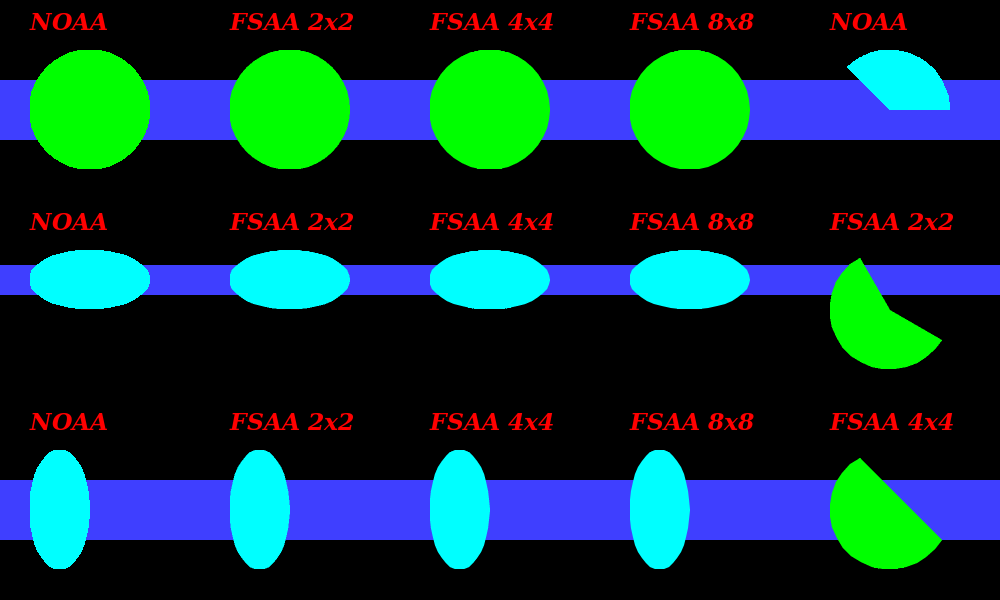
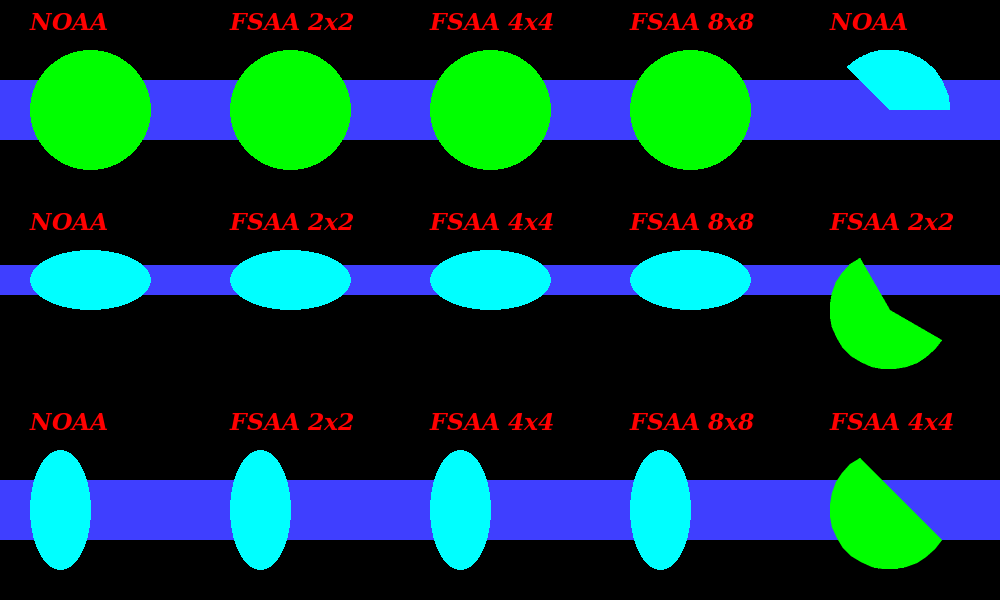
Experiment with solid filled ellipse

diff --git a/src/Pt-Gfx/Rasterizer2.cpp b/src/Pt-Gfx/Rasterizer2.cpp
@@ -167,9 +167,95 @@ void Rasterizer2::strokeText( const Point& to, const Pt::String& text )
     _text->draw( *_image, _pen.color(), to, text, _compositionMode );
 }
 
+void Rasterizer2::fillEllipseJaggies(const Point& topLeft, const Size& size)
+{
+    // e(X, Y) = ( b^2 * X^2 ) + ( a^2 * Y^2 ) - ( a^2 * b^2 )
+
+    Pt::int32_t errorx = 1;
+    Pt::int32_t errory = 1;
+
+    if( (Pt::int32_t)size.width()%2 != 0 )
+        errorx  =  0;
+
+    if( (Pt::int32_t)size.height()%2 != 0)
+        errory  = 0;
+
+    const Pt::int32_t       a      = (Pt::int32_t)size.width() /2;
+    const Pt::int32_t       b      = (Pt::int32_t)size.height() /2;
+    const Pt::int32_t       xc     = (Pt::int32_t)topLeft.x() + a;
+    const Pt::int32_t       yc     = (Pt::int32_t)topLeft.y() + b;
+    Pt::int32_t             x      = 0;
+    Pt::int32_t             y      = b;
+    Pt::int32_t             width  = 1;
+    long            a2     = (long)a*a;
+    long            b2     = (long)b*b;
+    long            crit1  = -(a2/4 + a%2 + b2);
+    long            crit2  = -(b2/4 + b%2 + a2);
+    long            crit3  = -(b2/4 + b%2);
+    long            t      = -a2*y; /* e(x+1/2,y-1/2) - (a^2+b^2)/4 */
+    long            dxt    = 2*b2*x;
+    long            dyt    = -2*a2*y;
+    long            d2xt   = 2*b2;
+    long            d2yt   = 2*a2;
+
+    while( y >= 0 && x <= a )
+    {
+        if( t + b2*x <= crit1 /* e(x+1,y-1/2) <= 0 */ || t + a2*y <= crit3 /* e(x+1/2,y) <= 0 */ )
+        {
+            //Increment x
+            x++;
+            dxt += d2xt;
+            t   += dxt;
+
+            width += 2;
+        }
+        else if( t - a2*y > crit2 ) /* e(x+1/2,y-1) > 0 */
+        {
+            rasterScanline(xc - x, xc - x + width - errorx, yc - y, 0, 0, _brush.color());
+
+            if(y != 0)
+            rasterScanline(xc - x, xc - x + width - errorx, yc + y - errory, 0, 0, _brush.color());
+
+
+             //Increment Y
+            y--;
+            dyt += d2yt;
+            t   += dyt;
+        }
+        else
+        {
+            rasterScanline(xc - x, xc - x + width - errorx, yc - y, 0, 0, _brush.color());
+
+            if(y != 0)
+            rasterScanline(xc - x, xc - x + width - errorx, yc + y - errory, 0, 0, _brush.color());
+
+            //outputSpan(  topLeft, xc-x, yc-y, width -errorx );
+
+            //if( y != 0 )
+             //   outputSpan( topLeft, xc-x, yc+y -errory, width - errorx );
+
+             //Increment x
+            x++;
+            dxt += d2xt;
+            t   += dxt;
+
+            //Increment Y
+            y--;
+            dyt += d2yt;
+            t   += dyt;
+
+            width += 2;
+        }
+    }
+
+   // if( b == 0 )
+       // outputSpan(  topLeft, xc-a, yc, 2*a );
+
+}
+
 
 // ======================================================================================
-// ===== Private Member Functions - Utilities ===========================================
+// ===== Private Member Functions =======================================================
 // ======================================================================================
 
 void Rasterizer2::updateGradientBrush(Pt::int32_t width, Pt::int32_t height)

diff --git a/src/Pt-Gfx/ImagePainter2.cpp b/src/Pt-Gfx/ImagePainter2.cpp
@@ -187,6 +187,14 @@ void ImagePainter2::drawEllipse( const PointF& topLeft, const SizeF& size )
 
 void ImagePainter2::fillEllipse( const PointF& topLeft, const SizeF& size )
 {
+
+#if 1
+    const Point topLeft_( topLeft.x    (), topLeft.y     () );
+    const Size  size_   ( size   .width(), size   .height() );
+
+    _rasterizer->fillEllipseJaggies(topLeft_, size_);
+
+#else
     // Calculate the ellipse's parameters
     const Pt::int32_t radiusX = size.width () / 2;
     const Pt::int32_t radiusY = size.height() / 2;
@@ -195,6 +203,7 @@ void ImagePainter2::fillEllipse( const PointF& topLeft, const SizeF& size )
     const Pt::int32_t centerY = topLeft.y() + radiusY;
     const Pt::int32_t numSegs = (radiusM * 2 / 3 / 20) * 20;
     const Pt::int32_t qtrSegs = (numSegs / 4);
+    const Pt::int32_t qtrSeg1 = qtrSegs - 1;
 
     // Calculate the coordinate displacements
     std::vector<float> disX(qtrSegs);
@@ -208,23 +217,25 @@ void ImagePainter2::fillEllipse( const PointF& topLeft, const SizeF& size )
     }
 
     // Generate a polygon that approximates the ellipse
+    // ### TODO: REMOVE DUPLICATED POINTS !!! ###
     std::vector<Point> points(numSegs);
     Pt::int32_t        p = 0;
     for(Pt::int32_t i = 0; i < qtrSegs; ++i) { // Quadrant I
         points[p++].set(centerX + disX[i], centerY + disY[i]);
     }
     for(Pt::int32_t i = 0; i < qtrSegs; ++i) { // Quadrant II
-        points[p++].set(centerX - disX[qtrSegs - 1 - i], centerY + disY[qtrSegs - 1 - i]);
+        points[p++].set(centerX - disX[qtrSeg1 - i], centerY + disY[qtrSeg1 - i]);
     }
     for(Pt::int32_t i = 0; i < qtrSegs; ++i) { // Quadrant III
         points[p++].set(centerX - disX[i], centerY - disY[i]);
     }
     for(Pt::int32_t i = 0; i < qtrSegs; ++i) { // Quadrant IV
-        points[p++].set(centerX + disX[qtrSegs - 1 - i], centerY - disY[qtrSegs - 1 - i]);
+        points[p++].set(centerX + disX[qtrSeg1 - i], centerY - disY[qtrSeg1 - i]);
     }
 
     // Rasterize the polygon
     _rasterizer->fillPolygon(points.data(), points.size());
+#endif
 }
 
 void ImagePainter2::drawArc(const PointF& topLeft, const SizeF& size, float degBegin, float degEnd)

diff --git a/src/Pt-Gfx/Rasterizer2.h b/src/Pt-Gfx/Rasterizer2.h
@@ -139,6 +139,8 @@ class Rasterizer2
         void fillPolygon(const Point* points, size_t pointCount);
         void fillPolygonSeparate(const Point* points, size_t pointCount);
 
+        void fillEllipseJaggies(const Point& topLeft, const Size& size);
+
     private:
         void rasterOnePixelLine(const Point& a, const Point& b);
         void rasterOnePixelHLineSegment(Pt::int32_t x1, Pt::int32_t x2, Pt::int32_t y, const Color& color, bool skipLastPoint);
